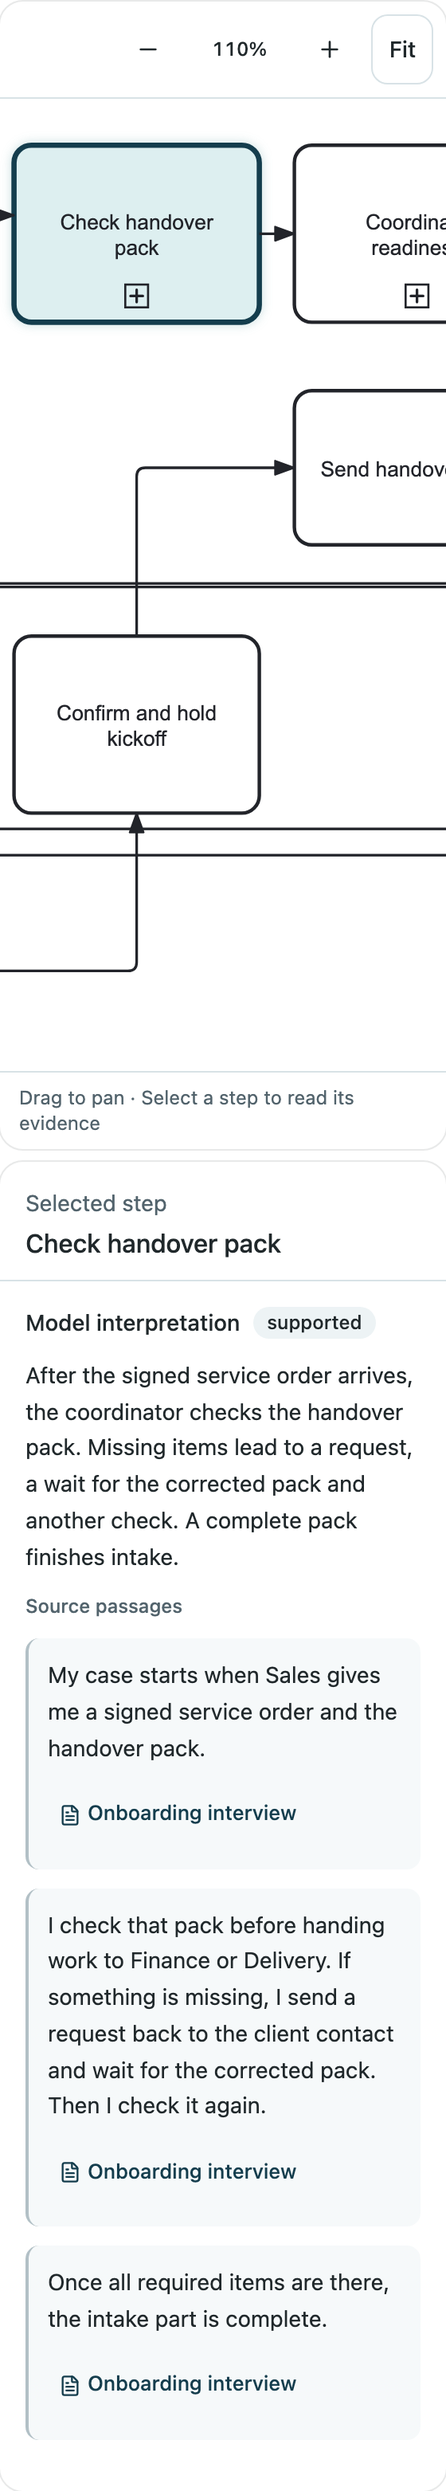
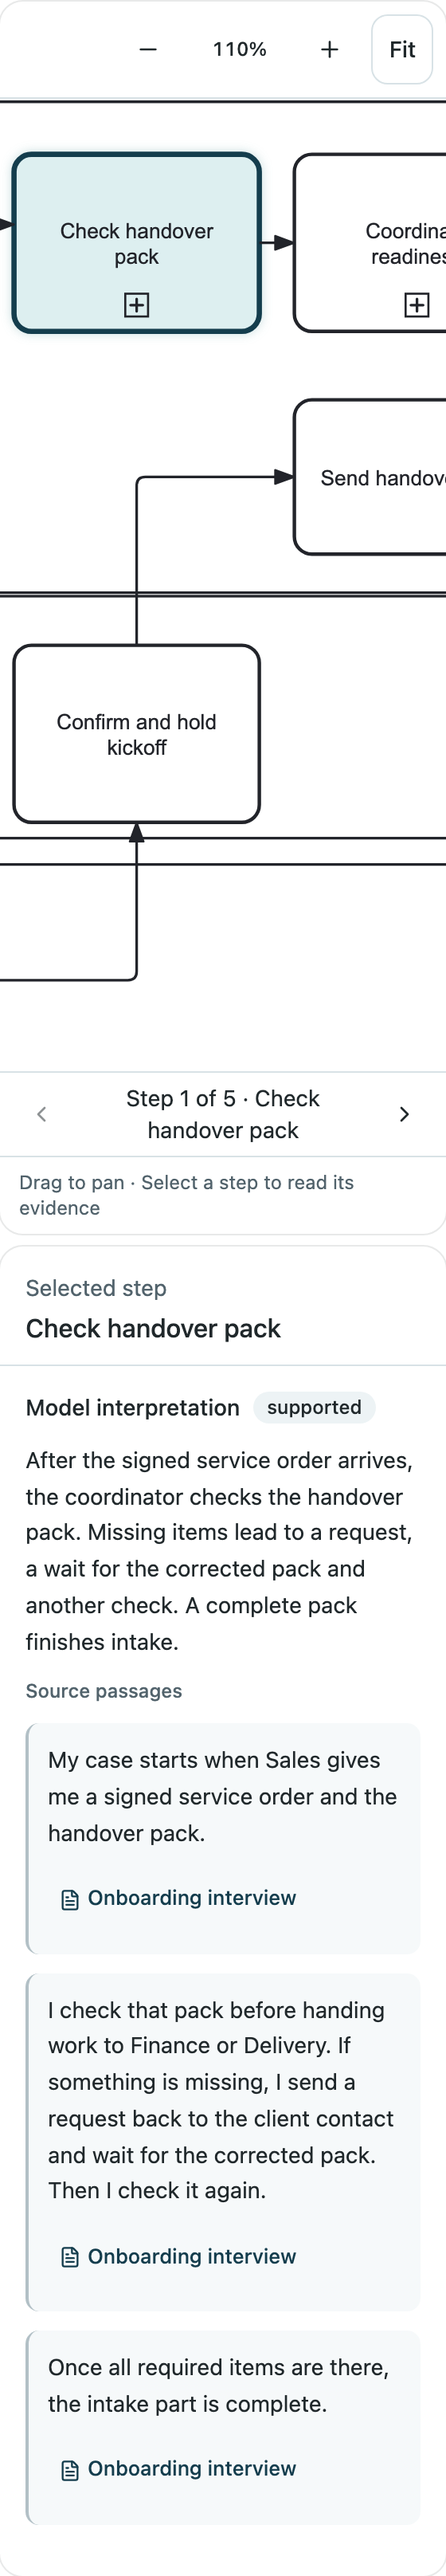
Add previous and next step buttons under the home page example on phones, so visitors read every step without dragging the diagram sideways

diff --git a/src/web/components/evidence-demo.tsx b/src/web/components/evidence-demo.tsx
@@ -1,8 +1,10 @@
 import { useMemo, useRef, useState } from "react";
-import type { Review } from "@/lib/types";
+import { ChevronLeft, ChevronRight } from "lucide-react";
+import type { DiagramView, ModelElement, Review } from "@/lib/types";
 import { DiagramCanvas, ZoomControls, type CanvasControls } from "./diagram-canvas";
 import { EvidencePanel } from "./evidence-panel";
 import { SourcePassage } from "./review-records";
+import { Button } from "./ui/button";
 import { Card } from "./ui/card";
 import { Sheet, SheetContent, SheetDescription, SheetHeader, SheetTitle } from "./ui/sheet";
 
@@ -12,16 +14,47 @@ import { Sheet, SheetContent, SheetDescription, SheetHeader, SheetTitle } from "
 // The selected step first, then the view's other steps, at the zoom that shows the diagram's 11 px labels at 12 px.
 const frame = { ids: ["Intake", "Readiness", "SendHandover", "Kickoff", "Workspace"], scale: 1.1 };
 
+// The view's steps in process order: from the first step along the sequence flows, then each other chain
+// of steps from its own first step, in the order the view lists them.
+export function stepOrder(view: DiagramView, elements: ModelElement[], first: string) {
+  const inView = elements.filter((e) => view.elementIds.includes(e.id));
+  const steps = inView.filter((e) => /(Task|SubProcess|CallActivity)$/.test(e.type)).map((e) => e.id);
+  const flows = inView.filter((e) => e.type === "SequenceFlow" && e.source && e.target);
+  const order: string[] = [];
+  const walk = (id: string) => {
+    if (!steps.includes(id) || order.includes(id)) return;
+    order.push(id);
+    for (const flow of flows) if (flow.source === id) walk(flow.target!);
+  };
+  walk(first);
+  for (const id of steps) if (!flows.some((flow) => flow.target === id && steps.includes(flow.source!))) walk(id);
+  steps.forEach(walk);
+  return order;
+}
+
 export function EvidenceDemo({ review: example }: { review: Review }) {
   const view = example.views[0];
   // Only this view is shown, so a subprocess is a step with evidence here, not a view to open: the panel
   // offers "Explore this part" only for a view it is given. Its questions are text, with no list to open.
   const review = useMemo(() => ({ ...example, views: [view] }), [example, view]);
+  const canvas = useRef<CanvasControls>(null);
   const [selectedId, setSelectedId] = useState(frame.ids[0]);
+  const steps = useMemo(() => stepOrder(view, review.elements, frame.ids[0]), [view, review]);
+  // The step the controls under the diagram count from. Selecting a pool, a flow or the start event leaves
+  // it on the last step selected, so the label and the buttons carry on from there.
+  const [step, setStep] = useState(0);
+  const select = (id: string) => {
+    setSelectedId(id);
+    if (steps.includes(id)) setStep(steps.indexOf(id));
+  };
+  const go = (index: number) => {
+    if (!steps[index]) return;
+    select(steps[index]);
+    canvas.current?.show(steps[index]);
+  };
   const [focusRequest, setFocusRequest] = useState(0);
   const [zoom, setZoom] = useState(100);
   const [passage, setPassage] = useState<{ source: string; segment: string }>();
-  const canvas = useRef<CanvasControls>(null);
   const selected = review.elements.find((e) => e.id === selectedId);
   return (
     <div className="evidence-demo grid h-full grid-rows-[minmax(0,1fr)_auto] gap-2 lg:grid-cols-[minmax(0,1fr)_300px] lg:grid-rows-[minmax(0,1fr)]">
@@ -38,11 +71,25 @@ export function EvidenceDemo({ review: example }: { review: Review }) {
           selected={selectedId}
           focusRequest={focusRequest}
           storageKey="home-demo"
-          onSelect={setSelectedId}
+          onSelect={select}
           onZoom={setZoom}
           frame={frame}
           ref={canvas}
         />
+        {/* Below lg the example is at most 350 px wide, which never holds all the steps at this zoom, so
+            these buttons bring each step into view. From lg up every step is in view and they are hidden. */}
+        <div className="step-controls flex items-center gap-1 border-t p-1 lg:hidden">
+          {/* aria-disabled, not disabled, so a button keeps the keyboard focus when it reaches its end. */}
+          <Button variant="ghost" size="icon" aria-label="Previous step" aria-disabled={step === 0} className="aria-disabled:opacity-50" onClick={() => go(step - 1)}>
+            <ChevronLeft />
+          </Button>
+          <p aria-live="polite" aria-atomic="true" className="flex min-h-10 min-w-0 flex-1 items-center justify-center text-center text-sm leading-5 text-balance">
+            Step {step + 1} of {steps.length} · {review.elements.find((e) => e.id === steps[step])?.label}
+          </p>
+          <Button variant="ghost" size="icon" aria-label="Next step" aria-disabled={step === steps.length - 1} className="aria-disabled:opacity-50" onClick={() => go(step + 1)}>
+            <ChevronRight />
+          </Button>
+        </div>
         <p className="canvas-help border-t px-3 py-2 text-xs text-muted-foreground">Drag to pan · Select a step to read its evidence</p>
       </Card>
       {selected && (
@@ -52,7 +99,7 @@ export function EvidenceDemo({ review: example }: { review: Review }) {
           onGo={(id) => {
             // Only this view is shown, so a step in another view keeps the selection where it is.
             if (!view.elementIds.includes(id) && !view.contextIds.includes(id)) return;
-            setSelectedId(id);
+            select(id);
             setFocusRequest((n) => n + 1);
           }}
           onSource={(source, segment) => setPassage({ source, segment })}

diff --git a/scripts/test-cloudflare-browser.js b/scripts/test-cloudflare-browser.js
@@ -136,6 +136,65 @@ try {
   await p.waitForFunction(y => scrollY > y, scrolled);
   assert.equal(await demo.getByLabel("Zoom level").innerText(), zoomLevel, "The wheel scrolls the page instead of zooming the homepage diagram");
   console.log("Homepage example shows a selected step's evidence in place and leaves the page scroll alone");
+  // On a phone the diagram is wider than the screen, so the buttons under it go through the steps.
+  const demoStep = demo.locator(".step-controls p"), previousStep = demo.getByRole("button", { name: "Previous step" }), nextStep = demo.getByRole("button", { name: "Next step" });
+  assert.equal(await demo.locator(".step-controls").isVisible(), false, "Desktop shows every step, so it has no step buttons");
+  const demoSteps = ["Check handover pack", "Coordinate readiness", "Verify workspace access", "Confirm and hold kickoff", "Send handover pack"];
+  for (const width of [390, 320]) {
+    await p.setViewportSize({ width, height: 844 });
+    await p.goto(base + "/");
+    await demo.scrollIntoViewIfNeeded();
+    await demo.locator(".diagram-stage svg").waitFor();
+    await nextStep.evaluate(button => button.scrollIntoView({ block: "center" }));
+    const stepState = () => p.evaluate(() => {
+      const q = selector => document.querySelector('[data-capture="evidence"] ' + selector);
+      const stage = q(".diagram-stage").getBoundingClientRect(), shape = q(".is-selected").getBoundingClientRect();
+      return {
+        label: q(".step-controls p").textContent, selected: q(".is-selected").getAttribute("aria-label"), title: q('.evidence-card [data-slot="card-title"]').textContent,
+        inside: shape.left >= stage.left + 4 && shape.right <= stage.right - 4 && shape.top >= stage.top + 4 && shape.bottom <= stage.bottom - 4,
+        offCenter: Math.abs(shape.left + shape.right - stage.left - stage.right) / 2,
+        url: location.href, scrollY, buttonTop: q('[aria-label="Next step"]').getBoundingClientRect().top,
+      };
+    });
+    const start = await stepState();
+    assert.equal(start.label, "Step 1 of 5 · " + demoSteps[0]);
+    assert.equal(await previousStep.getAttribute("aria-disabled"), "true", `${width}px: there is no step before the first`);
+    assert.equal(await nextStep.getAttribute("aria-disabled"), "false");
+    await previousStep.click({ force: true });
+    assert.equal((await stepState()).label, start.label, `${width}px: the previous button does nothing on the first step`);
+    for (const [index, name] of demoSteps.entries()) {
+      if (!index) continue;
+      await nextStep.click();
+      const state = await stepState();
+      assert.deepEqual([state.label, state.selected, state.title], [`Step ${index + 1} of 5 · ${name}`, name, name], `${width}px: the label, the diagram and the panel show step ${index + 1}`);
+      assert.ok(state.inside && state.offCenter <= 2, `${width}px: ${name} is centered and whole in the diagram (${state.offCenter}px off)`);
+      assert.equal(state.url, start.url, `${width}px: the step buttons leave the URL alone`);
+      assert.equal(state.scrollY, start.scrollY, `${width}px: the step buttons leave the page where it is`);
+      assert.ok(Math.abs(state.buttonTop - start.buttonTop) <= 1, `${width}px: the step buttons stay under the visitor's thumb`);
+      if (index === 1) {
+        // A flow isn't a step: the panel shows it, and the label and the buttons stay on the last step.
+        await demo.getByRole("button", { name: "Check handover pack → Coordinate readiness", exact: true }).click();
+        assert.equal(await demoTitle.innerText(), "Check handover pack → Coordinate readiness");
+        assert.equal(await demoStep.innerText(), "Step 2 of 5 · Coordinate readiness");
+      }
+    }
+    assert.equal(await nextStep.getAttribute("aria-disabled"), "true", `${width}px: there is no step after the last`);
+    assert.equal(await previousStep.getAttribute("aria-disabled"), "false");
+    await nextStep.click({ force: true });
+    assert.equal(await demoStep.innerText(), "Step 5 of 5 · Send handover pack");
+    // Selecting a step in the diagram moves the label to it.
+    await previousStep.click();
+    await demo.getByRole("button", { name: "Send handover pack", exact: true }).click();
+    assert.equal(await demoStep.innerText(), "Step 5 of 5 · Send handover pack");
+    assert.equal(await demoStep.getAttribute("aria-live"), "polite");
+    for (const button of [previousStep, nextStep]) {
+      const box = await button.boundingBox();
+      assert.ok(box.width >= 44 && box.height >= 44, `${width}px: the step buttons are 44 px tap targets`);
+    }
+  }
+  await p.setViewportSize({ width: 1440, height: 1000 });
+  await p.goto(base + "/");
+  console.log("Homepage example steps through its five steps on a phone without moving the page");
   // The capture holds the example's place: nothing moves when the example loads, and it stays if the load fails.
   const exampleData = "**/examples/onboarding-draft.json";
   for (const width of [1440, 1024, 768, 390, 320]) {

diff --git a/src/web/components/marketing.tsx b/src/web/components/marketing.tsx
@@ -1,4 +1,4 @@
-import { useEffect, useRef, useState, type ComponentType, type ReactNode } from "react";
+import { useEffect, useRef, useState, type ComponentType, type CSSProperties, type ReactNode } from "react";
 import { ArrowRight } from "lucide-react";
 import { api } from "@/lib/api";
 import { productName } from "@/lib/brand";
@@ -12,7 +12,7 @@ import { PathArt } from "./path-art";
 import { PricingPlans } from "./pricing-plans";
 
 // Bump the version when public/marketing changes (docs/marketing-design.md, "Sharp product previews").
-const capture = (file: string) => `/marketing/${file}?v=10`;
+const capture = (file: string) => `/marketing/${file}?v=11`;
 const repository = "https://github.com/HanifCarroll/Senda";
 const methodology = `${repository}/blob/main/skills/senda/references/methodology.md`;
 
@@ -205,11 +205,16 @@ function EvidenceVisual() {
   // capture is the example's own height, give or take the device's font, and the diagram takes up the
   // difference. Selecting a step changes the panel's height, so the hold ends there and on a resize.
   const [held, setHeld] = useState<number>();
-  const release = () => setHeld(undefined);
+  // A tap ends the hold with the diagram at the height it has, so the buttons under it don't move.
+  const [stage, setStage] = useState<number>();
+  const release = () => {
+    if (held) setStage(frame.current?.querySelector(".canvas-wrap")?.getBoundingClientRect().height);
+    setHeld(undefined);
+  };
   useEffect(() => {
     if (!held) return;
     const width = innerWidth;
-    const resized = () => innerWidth !== width && release();
+    const resized = () => innerWidth !== width && setHeld(undefined);
     addEventListener("resize", resized);
     return () => removeEventListener("resize", resized);
   }, [held]);
@@ -236,15 +241,15 @@ function EvidenceVisual() {
         {demo ? (
           // The cream panel starts at lg here. Below it the capture has no panel, and the example takes its exact box.
           <div className="lg:rounded-[1.75rem] lg:bg-muted lg:p-10">
-            <div data-held={held ? "" : undefined} style={{ height: held }} className={phoneWidth + " lg:h-[756px]"} onClickCapture={release} onKeyDownCapture={release}>
+            <div data-held={held ? "" : undefined} style={{ height: held, "--stage": stage && stage + "px" } as CSSProperties} className={phoneWidth + " lg:h-[756px]"} onClickCapture={release} onKeyDownCapture={release}>
               <demo.Demo review={demo.review} />
             </div>
           </div>
         ) : (
           // The captures are pictures of this panel with the example loaded, so nothing moves when it loads.
           <picture>
-            <source media="(max-width: 359px)" srcSet={capture("evidence-mobile-small.png")} width="280" height="1562" />
-            <source media="(max-width: 1023px)" srcSet={capture("evidence-mobile.png")} width="350" height="1478" />
+            <source media="(max-width: 359px)" srcSet={capture("evidence-mobile-small.png")} width="280" height="1615" />
+            <source media="(max-width: 1023px)" srcSet={capture("evidence-mobile.png")} width="350" height="1531" />
             <img
               src={capture("evidence.svg")}
               width="1088"

diff --git a/src/web/components/diagram-canvas.tsx b/src/web/components/diagram-canvas.tsx
@@ -17,6 +17,8 @@ export interface CanvasControls {
   zoom: (factor: number) => void;
   fit: () => void;
   actual: () => void;
+  // Pan, without zooming, until this element is centered sideways and wholly in view.
+  show: (id: string) => void;
 }
 interface Camera {
   x: number;
@@ -84,6 +86,7 @@ export function DiagramCanvas({
       zoom: (n) => controls.current?.zoom(n),
       fit: () => controls.current?.fit(),
       actual: () => controls.current?.actual(),
+      show: (id) => controls.current?.show(id),
     }),
     [],
   );
@@ -93,6 +96,7 @@ export function DiagramCanvas({
     const abort = new AbortController();
     let observer: ResizeObserver | undefined;
     let saveTimer: ReturnType<typeof setTimeout> | undefined;
+    let panFrame = 0;
     const key = `senda.camera.v1:${storageKey}:${view.elementId}`;
     let flush = () => {};
     try {
@@ -231,10 +235,36 @@ export function DiagramCanvas({
           host.focus({ preventScroll: true });
         }
       }
+      function show(id: string) {
+        const node = nodes.get(id);
+        if (!node || !host.clientWidth || !host.clientHeight) return;
+        const box = node.getBBox(), { width, height } = size(), pad = 12;
+        const dx = box.x + box.width / 2 - width / camera.scale / 2 - camera.x;
+        // Up and down, move only as far as the element needs to be wholly in view.
+        const dy = Math.min(Math.max(camera.y, box.y + box.height + pad - height / camera.scale), box.y - pad) - camera.y;
+        cancelAnimationFrame(panFrame);
+        const began = performance.now(), duration = matchMedia("(prefers-reduced-motion: reduce)").matches ? 0 : 250;
+        let done = 0;
+        // Each frame adds its share of the move, so a resize in the middle of it still counts.
+        const step = (now: number) => {
+          const t = duration ? Math.min(1, Math.max(0, now - began) / duration) : 1, eased = 1 - (1 - t) ** 3;
+          camera.x += dx * (eased - done);
+          camera.y += dy * (eased - done);
+          camera.fitted = false;
+          done = eased;
+          draw();
+          if (t < 1) panFrame = requestAnimationFrame(step);
+        };
+        if (duration) panFrame = requestAnimationFrame(step);
+        else step(began);
+      }
+      // A drag takes over from a pan that is still moving.
+      host.addEventListener("pointerdown", () => cancelAnimationFrame(panFrame), { signal: abort.signal });
       controls.current = {
         fit: () => fit(),
         zoom: (factor) => zoomTo(camera.scale * factor),
         actual: () => zoomTo(1),
+        show,
         select,
       };
       function showFrame() {
@@ -337,6 +367,7 @@ export function DiagramCanvas({
     window.addEventListener("pagehide", pageHide);
     return () => {
       clearTimeout(saveTimer);
+      cancelAnimationFrame(panFrame);
       flush();
       window.removeEventListener("pagehide", pageHide);
       abort.abort();

diff --git a/src/web/styles.css b/src/web/styles.css
@@ -47,7 +47,7 @@ body:has(.marketing) { background: #FFFFFF; }
 .evidence-demo .diagram-stage { touch-action: pan-y; }
 /* Tall enough on a phone for every step at 110%, because a swipe up or down scrolls the page. When the home
    page holds the example to its placeholder's height, the diagram takes what the panel leaves. */
-@media (max-width: 1023px) { :not([data-held]) > .evidence-demo .canvas-wrap { height: 610px; } }
+@media (max-width: 1023px) { :not([data-held]) > .evidence-demo .canvas-wrap { height: var(--stage, 610px); } }
 @media (prefers-reduced-motion: no-preference) { html:has(.marketing) { scroll-behavior: smooth; } }
 .font-display { font-family: "Newsreader Variable", "Iowan Old Style", Charter, Georgia, serif; font-optical-sizing: auto; font-weight: 400; }
 .diagram-workspace { height: max(470px, calc(100dvh - 230px)); }

diff --git a/docs/marketing-design.md b/docs/marketing-design.md
@@ -63,15 +63,20 @@ Live references were inspected and visually captured on 27 October 2026:
 
 ## The live example
 
-The evidence section embeds the public example instead of a picture of it, so a visitor can select a step and read its evidence without leaving the page. `EvidenceDemo` in `src/web/components/evidence-demo.tsx` shows the first draft's main view in the app's own `DiagramCanvas` and `EvidencePanel`, with "Check handover pack" selected. The first draft's main view is the one view whose steps show different passages from the interview itself: three passage sets across five steps, because "Verify workspace access", "Confirm and hold kickoff" and "Send handover pack" share one set, and the questions section under it shows the same draft's question. The diagram opens at 110%, so its labels are 12 px, from the view's top left corner. From 1024 px up every step is in view. On a phone the diagram is wider than the screen, so it starts at its left edge with the selected step in view.
+The evidence section embeds the public example instead of a picture of it, so a visitor can select a step and read its evidence without leaving the page. `EvidenceDemo` in `src/web/components/evidence-demo.tsx` shows the first draft's main view in the app's own `DiagramCanvas` and `EvidencePanel`, with "Check handover pack" selected. The first draft's main view is the one view whose steps show different passages from the interview itself: three passage sets across five steps, because "Verify workspace access", "Confirm and hold kickoff" and "Send handover pack" share one set, and the questions section under it shows the same draft's question. The diagram opens at 110%, so its labels are 12 px, from the view's top left corner. From 1024 px up every step is in view. On a phone the diagram is wider than the screen, so it starts at its left edge with the selected step in view, and the step buttons under it bring the others into view.
 
 - **Nothing navigates.** The selection is local state, so the URL never changes. A passage's source opens in a sheet over the page. The plain "Open the full example" link under it goes to `/example?draft=true` and is the only way out.
 - **No dead buttons.** The demo shows one view, so a subprocess is a step with evidence and has no "Explore this part" button. A step's related questions are shown as text, because the demo has no question list to open. In the app both are still buttons.
 - **It loads late, and nothing moves when it does.** The page first shows a capture of the demo itself, in the same box. The demo's code (about 2 kB) and `public/examples/onboarding-draft.json` (119 kB, 16 kB compressed) load when the section comes within 800 px of the viewport. If either fails, the capture stays. From 1024 px up the box is the cream panel, 836 px tall. Below that neither has a panel, the capture and the demo are both 350 px wide (280 px under 360 px), and the demo takes the capture's exact height, and the diagram absorbs any difference, until the visitor selects a step or resizes the window.
 - **It doesn't trap the page's scroll.** A wheel or trackpad scroll over the diagram scrolls the page; only a pinch or Ctrl and the wheel zooms. On a touch screen a swipe up or down scrolls the page (`touch-action: pan-y` on `.evidence-demo .diagram-stage`), and a sideways drag pans the diagram. Drag, the zoom buttons and Fit work as in the app.
-- **Phones** show the diagram 610 px tall, which holds every step at 110%, with the evidence panel under it at its full height, so the panel never scrolls inside the page. Together they are 1,478 px tall at 390 px and 1,562 px at 320 px.
+- **Step buttons below 1024 px.** Under the diagram is a row with a "Previous step" button, the label "Step 2 of 5 · Coordinate readiness" and a "Next step" button. A button selects the step, pans the diagram until the step is centered sideways and wholly in view, and shows its passages in the panel. The zoom doesn't change, the page doesn't scroll, and the pan takes a quarter of a second unless the visitor prefers reduced motion. The row shows below `lg`, where the example is at most 350 px wide and never holds every step at 110%, and is hidden from `lg` up, where every step is in view.
+  - The order comes from the view's sequence flows (`stepOrder` in `evidence-demo.tsx`): from the selected step along the flows, then each other chain from its first step. That gives "Check handover pack", "Coordinate readiness", "Verify workspace access", "Confirm and hold kickoff" and "Send handover pack". No flow in this view joins the second step to the third, because the work between them is inside "Coordinate readiness".
+  - Selecting a step in the diagram moves the label to it. Selecting a pool, a lane, a flow or the start event shows it in the panel and leaves the label on the last step, so the buttons carry on from there.
+  - The label is a polite live region. At the first and last step a button is `aria-disabled`, not `disabled`, so it keeps the keyboard focus.
+  - The first tap ends the hold on the example's height with the diagram at the height it has, so the buttons don't move under the visitor's thumb.
+- **Phones** show the diagram 610 px tall, which holds every step at 110%, with the evidence panel under it at its full height, so the panel never scrolls inside the page. With the step buttons between them they are 1,531 px tall at 390 px and 1,615 px at 320 px.
 
-`scripts/test-cloudflare-browser.js` selects a step in it and checks that the panel shows another passage, the URL doesn't change, and the wheel scrolls the page. At 1440, 1024, 768, 390 and 320 px it holds the data request back and checks that the section's height and the next section's top don't move when the demo appears, then fails the request and checks that the capture stays.
+`scripts/test-cloudflare-browser.js` selects a step in it and checks that the panel shows another passage, the URL doesn't change, and the wheel scrolls the page. At 390 and 320 px it goes through the five steps with the step buttons and checks each time that the label, the diagram and the panel name the same step, the step is whole and centered in the diagram, and the URL and the page's scroll position haven't changed. At 1440 px it checks that the buttons are hidden. At 1440, 1024, 768, 390 and 320 px it holds the data request back and checks that the section's height and the next section's top don't move when the demo appears, then fails the request and checks that the capture stays.
 
 ## Captures
 
@@ -94,8 +99,8 @@ Earlier WebP assets included desktop captures enlarged from 1× images, and an e
 | File | Shown | Size | Captured from |
 | --- | --- | --- | --- |
 | `evidence.svg` | 1024 px and wider, until the live example loads | 1088 × 836 | The evidence section's cream panel on `/` at 1440 × 1100, with the example loaded |
-| `evidence-mobile.png` | 360 to 1023 px, until the live example loads | 350 × 1478 | The loaded example on `/` at 390 × 844 |
-| `evidence-mobile-small.png` | Under 360 px, until the live example loads | 280 × 1562 | The loaded example on `/` at 320 × 844 |
+| `evidence-mobile.png` | 360 to 1023 px, until the live example loads | 350 × 1531 | The loaded example on `/` at 390 × 844 |
+| `evidence-mobile-small.png` | Under 360 px, until the live example loads | 280 × 1615 | The loaded example on `/` at 320 × 844 |
 | `clarification.svg` | 861 to 1023 px | 720 × 106 | `/example?draft=true&section=questions` at 800 × 1000, cropped to the first `.reading-column [data-slot="accordion-item"]` and cut 16 px under its reason |
 | `clarification-mobile.png` | 360 to 860 px, and 1024 px and wider, where the question sits beside the text | 334 × 146 | The same question at 390 × 844 |
 | `clarification-mobile-small.png` | Under 360 px | 264 × 186 | The same question at 320 × 844 |

diff --git a/CHANGELOG.md b/CHANGELOG.md
@@ -5,6 +5,7 @@
 - Rebuild the homepage as one idea per section on a shared template: the comparison with asking an AI now comes before the product sections, the walkthrough is three sections with full-width captures, and marketing text is 16 px or larger. Product captures show the app's text at 12 px at 1440, 390 and 320 px wide, and at about 10.5 px or more at the widths in between.
 - Make the homepage copy clearer: one name for each thing ("the agent", "diagram", "passage"), a rewritten questions section, both ways to use an agent, revisions split from the To-be plan, plainer plan terms, and a new "What can I add?" question. The evidence capture now shows the interviewee's own words, the question capture drops the step buttons, and the example's first question gives its reason in plain words.
 - Show the public example live in the homepage's evidence section, so selecting a step shows its passage on the page instead of opening `/example`. It shows the first draft's main view, whose steps show three different sets of passages, loads when the section comes near the viewport without moving the page, and never takes over the page's scroll. On desktop, sections now put text beside their visual, alternating sides, which makes the page about 900 px shorter at 1440 px wide.
+- Add "Previous step" and "Next step" buttons under the homepage example on phones and tablets, with a label such as "Step 2 of 5 · Coordinate readiness". Each one selects a step, moves the diagram to it and shows its passages, so visitors read all five steps without dragging the diagram sideways.
 
 ## 0.4.0
 
